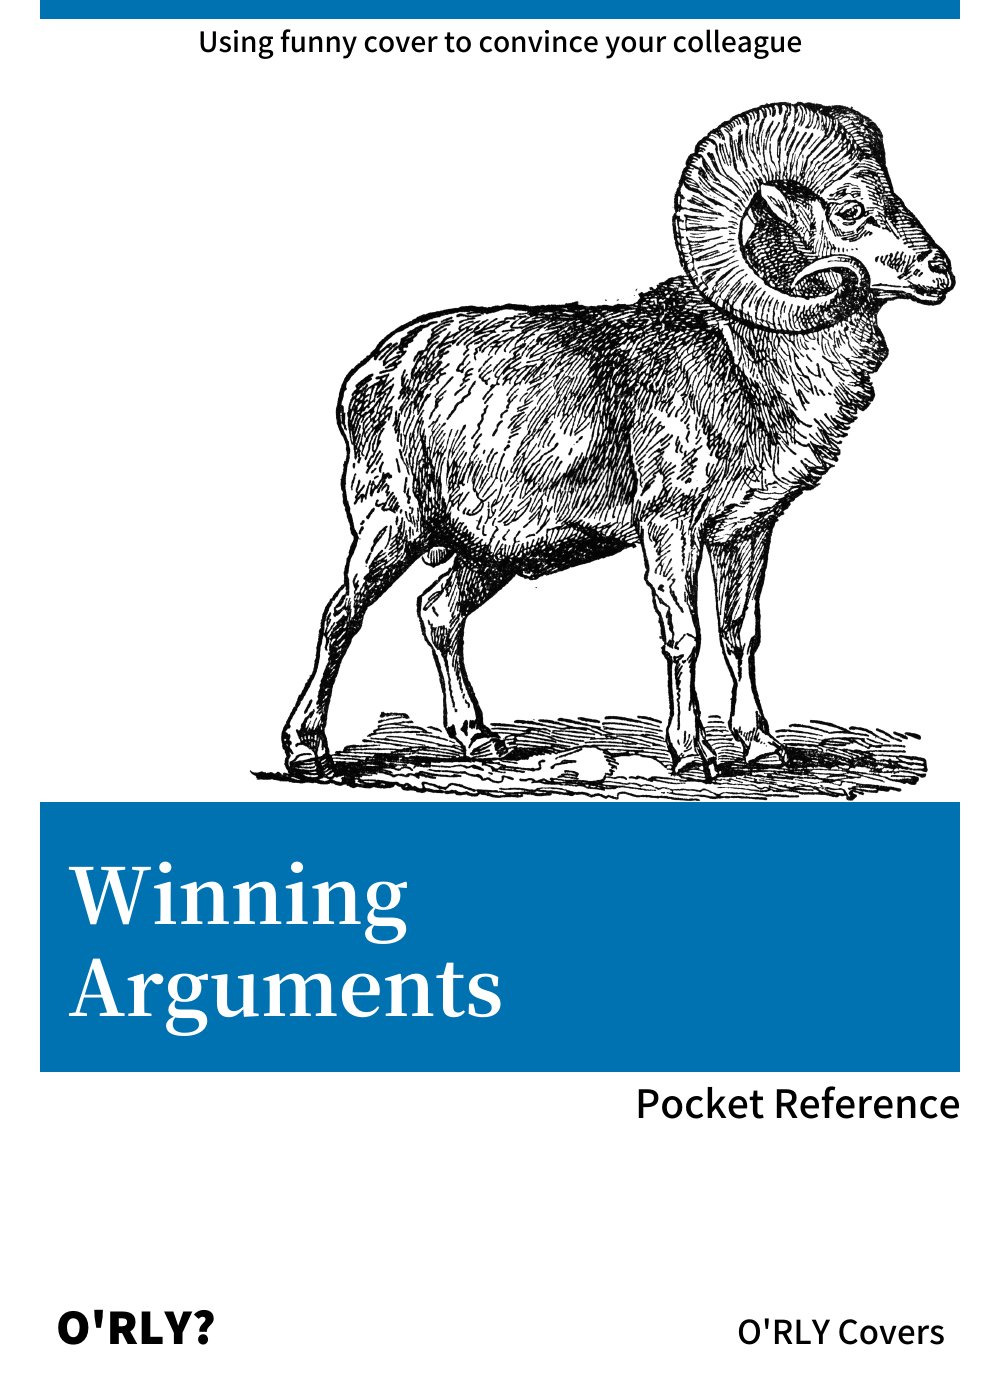
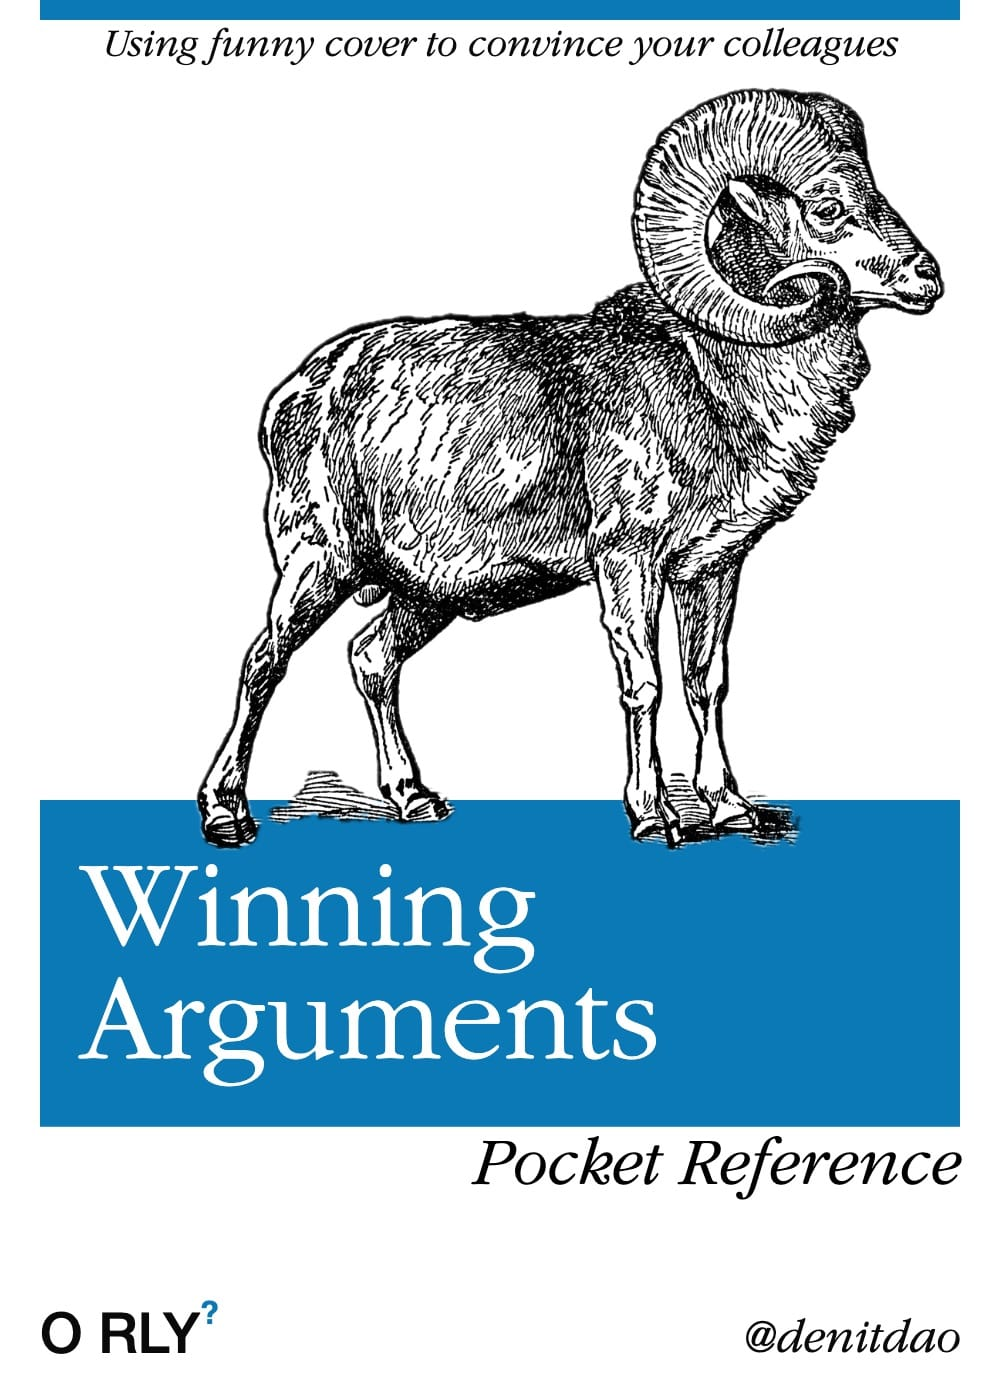
using vercel geist font updated OG preparing to use github as image source

Changed region(s): [[0.031, 0.0, 0.961, 0.86], [0.744, 0.9214, 0.961, 0.9829], [0.031, 0.9214, 0.217, 0.9829]]

diff --git a/src/pages/books/[slug].tsx b/src/pages/books/[slug].tsx
@@ -16,6 +16,7 @@ import { toast } from "sonner";
 import { createCaller } from "~/server/api/root";
 import { createInnerTRPCContext } from "~/server/api/trpc";
 import { type Story } from "~/server/storage/stories";
+import Image from "next/image";
 
 export const getStaticProps: GetStaticProps = async (context) => {
   const bookId = context.params?.slug as string;
@@ -87,17 +88,17 @@ const BookContent = ({ book, story }: { book: Book; story?: Story }) => {
     <main className="px-4 pb-16">
       <div className="mx-auto max-w-screen-2xl">
         <div className="flex w-full flex-col items-center">
-          {/* eslint-disable-next-line @next/next/no-img-element */}
-          <img
+          <Image
             alt={book.id}
             src={imageUrl}
+            unoptimized={true}
             height={600}
             width={600}
             className="mb-4"
           />
           <div className="mb-12 flex flex-wrap items-center gap-2">
             <SearchPills
-              activeKeyword={""}
+              activeKeyword=""
               pillDataArray={keywords}
               onKeywordClick={(keyword) => {
                 router
@@ -145,13 +146,13 @@ const Header = ({ title }: { title: string }) => {
   return (
     <header className="px-4 py-16">
       <div className="mx-auto flex w-full max-w-screen-2xl flex-col items-center">
-        <h1 className="mb-5 max-w-[800px] text-4xl font-extrabold tracking-tight text-black">
+        <h1 className="mb-5 max-w-[800px] text-4xl font-extrabold text-black">
           {title}
         </h1>
-        <h2 className="text-center font-mono tracking-tight text-gray-600">
+        <h2 className="text-center font-mono text-gray-600">
           View the full collection of compelling{" "}
           <Link
-            href={"/"}
+            href="/"
             className="underline decoration-blue-400 decoration-2 underline-offset-2"
           >
             programming book covers

diff --git a/src/components/OrlyFooter.tsx b/src/components/OrlyFooter.tsx
@@ -18,7 +18,7 @@ const OrlyFooter = () => {
             <path d="M10 .5a9.5 9.5 0 1 0 9.5 9.5A9.51 9.51 0 0 0 10 .5ZM9.5 4a1.5 1.5 0 1 1 0 3 1.5 1.5 0 0 1 0-3ZM12 15H8a1 1 0 0 1 0-2h1v-3H8a1 1 0 0 1 0-2h2a1 1 0 0 1 1 1v4h1a1 1 0 0 1 0 2Z" />
           </svg>
           <div>
-            <span className="font-mono font-bold">LEGAL NOTICE:</span>
+            <span className="font-bold">LEGAL NOTICE:</span>
             <ul className="ml-2 mt-1.5 list-inside list-disc">
               <li>
                 This website is not affiliated with O&apos;Reilly Media, Inc.
@@ -34,7 +34,7 @@ const OrlyFooter = () => {
             </ul>
           </div>
         </div>
-        <p className="mx-auto mt-8 font-mono text-sm text-gray-500">
+        <p className="mx-auto mt-8 font-mono text-gray-500">
           Open source on{" "}
           <Link
             href="https://github.com/denitdao/o-rly-collection"
@@ -43,7 +43,7 @@ const OrlyFooter = () => {
             GitHub
           </Link>
         </p>
-        <p className="mx-auto mt-2 font-mono text-sm text-gray-500">
+        <p className="mx-auto mt-2 font-mono text-gray-500">
           © {new Date().getFullYear() + " Created by "}
           <Link
             href="https://x.com/DChurchyn"

diff --git a/src/components/SortSelect.tsx b/src/components/SortSelect.tsx
@@ -11,6 +11,7 @@ import {
 import { type SelectTriggerProps } from "@radix-ui/react-select";
 import { cn } from "~/lib/utils";
 import { useState } from "react";
+import { GeistMono } from "geist/font/mono";
 
 interface SortSelectProps extends SelectTriggerProps {
   value: SortMode;
@@ -51,7 +52,7 @@ const SortSelect = ({
         )}
       </SelectTrigger>
       <SelectContent
-        className="font-mono"
+        className={GeistMono.className}
         // Fix for mobile tap, triggering onClick for element behind the select
         // https://github.com/shadcn-ui/ui/issues/486
         ref={(ref) => {
@@ -62,7 +63,7 @@ const SortSelect = ({
         }}
       >
         <SelectGroup>
-          <SelectLabel>Sorting Modes</SelectLabel>
+          <SelectLabel className="font-extrabold">Sort by</SelectLabel>
           <SelectItem value="default">Default</SelectItem>
           <SelectItem value="newest">
             <div className="flex">

diff --git a/src/pages/_app.tsx b/src/pages/_app.tsx
@@ -4,18 +4,14 @@ import "~/styles/globals.css";
 import { SpeedInsights } from "@vercel/speed-insights/next";
 import { GoogleAnalytics } from "~/components/meta/GoogleAnalytics";
 import { Toaster } from "~/components/ui/sonner";
-import { Inter as FontSans } from "next/font/google";
 import { cn } from "~/lib/utils";
 import PostHogAnalyticsProvider from "~/components/meta/PostHogAnalytics";
-
-const fontSans = FontSans({
-  subsets: ["latin"],
-  variable: "--font-sans",
-});
+import { GeistMono } from "geist/font/mono";
+import { GeistSans } from "geist/font/sans";
 
 const MyApp: AppType = ({ Component, pageProps }) => {
   return (
-    <div className={cn("font-sans antialiased", fontSans.variable)}>
+    <div className={cn(GeistSans.variable, GeistMono.variable, "font-sans")}>
       <PostHogAnalyticsProvider>
         <Component {...pageProps} />
       </PostHogAnalyticsProvider>

diff --git a/src/components/BookTile.tsx b/src/components/BookTile.tsx
@@ -20,7 +20,7 @@ const BookTile = ({
 }) => (
   <motion.div layout className="group relative rounded-lg bg-white shadow">
     <button
-      className="absolute right-0 top-0 z-10 hidden rounded-lg bg-gray-200 p-2 text-xl opacity-70 hover:opacity-90 group-hover:block"
+      className="absolute right-0 top-0 z-10 hidden rounded-lg bg-gray-200 p-2 opacity-70 hover:opacity-90 group-hover:block"
       onClick={onCopyClick}
     >
       <LinkIcon />
@@ -32,7 +32,7 @@ const BookTile = ({
         query: { slug: bookId },
       }}
     >
-      <h3 className="m-2 font-mono text-sm font-medium text-gray-900 decoration-blue-400 group-hover:underline group-hover:decoration-2">
+      <h3 className="m-2 font-mono text-sm decoration-blue-400 group-hover:underline group-hover:decoration-2">
         {title.length < 50 ? title : title.slice(0, 46) + "..."}
       </h3>
     </Link>

diff --git a/src/components/ImagePreview.tsx b/src/components/ImagePreview.tsx
@@ -1,5 +1,6 @@
 import { Link, X } from "lucide-react";
 import React, { createContext, useContext, useState } from "react";
+import Image from "next/image";
 
 type ImagePreviewContextType = {
   showImage: (imageId: string, imageUrl: string, onCopy: () => void) => void;
@@ -85,10 +86,11 @@ const ImagePreview: React.FC<ImagePreviewState> = (props) => {
       onClick={() => props.onClose()}
     >
       <div className="relative h-[80%] w-full max-w-screen-lg">
-        {/* eslint-disable-next-line @next/next/no-img-element */}
-        <img
-          src={imageUrl}
+        <Image
           alt={imageId}
+          src={imageUrl}
+          unoptimized={true}
+          fill
           className="h-full w-full object-contain"
         />
       </div>

diff --git a/src/components/OrlyHeader.tsx b/src/components/OrlyHeader.tsx
@@ -4,13 +4,13 @@ const OrlyHeader = () => {
   return (
     <header className="px-4 py-16">
       <div className="mx-auto flex w-full max-w-screen-2xl flex-col items-center">
-        <h1 className="mb-5 text-4xl font-extrabold tracking-tight text-black">
+        <h1 className="mb-5 text-4xl font-extrabold text-black">
           Search O&apos;RLY Covers
         </h1>
-        <h2 className="text-center font-mono tracking-tight text-gray-600">
+        <h2 className="text-center font-mono text-gray-600">
           Strengthen your{" "}
           <Link
-            href={"/"}
+            href="/"
             className="underline decoration-blue-400 decoration-2 underline-offset-2"
           >
             arguments

diff --git a/src/components/BlurringImage.tsx b/src/components/BlurringImage.tsx
@@ -1,4 +1,5 @@
 import { AspectRatio } from "~/components/ui/aspect-ratio";
+import Image from "next/image";
 
 const BlurringImage = ({
   alt,
@@ -14,12 +15,13 @@ const BlurringImage = ({
       ratio={3 / 4.1}
       className="w-full overflow-hidden rounded-lg bg-gray-200 hover:cursor-pointer"
     >
-      {/* eslint-disable-next-line @next/next/no-img-element */}
-      <img
+      <Image
         alt={alt}
         src={imageUrl}
         loading="lazy"
+        unoptimized={true}
         onClick={onClick}
+        fill
         className="h-full w-full scale-100 rounded-lg object-cover blur-0 grayscale-0 duration-500 ease-in-out group-hover:scale-95 group-hover:duration-200"
       />
     </AspectRatio>

diff --git a/src/pages/api/og.tsx b/src/pages/api/og.tsx
@@ -14,8 +14,8 @@ export default async function handler(request: NextRequest): Promise<Response> {
     const hasImageFile =
       searchParams.has("image_file") && searchParams.get("image_file") !== "";
     const image_file = hasImageFile
-      ? `${env.NEXT_PUBLIC_SITE_URL}${env.NEXT_PUBLIC_IMAGE_SOURCE}/${searchParams.get("image_file")}`
-      : `${env.NEXT_PUBLIC_SITE_URL}${env.NEXT_PUBLIC_OG_SOURCE}/og.jpeg`;
+      ? `${env.NEXT_PUBLIC_IMAGE_SOURCE}/${searchParams.get("image_file")}`
+      : `${env.NEXT_PUBLIC_OG_SOURCE}/og.jpeg`;
 
     // eslint-disable-next-line @typescript-eslint/no-unsafe-return, @typescript-eslint/no-unsafe-call
     return new ImageResponse(

diff --git a/src/components/SearchPills.tsx b/src/components/SearchPills.tsx
@@ -119,7 +119,7 @@ const SearchPills = ({
           variant="outline"
           className={cn(
             className,
-            "font-mono hover:border-primary",
+            "font-mono text-sm font-normal hover:border-primary",
             pillData.keyword === activeKeyword.trim().toLowerCase() &&
               "border-blue-300",
             gradient(pillData.colors),

diff --git a/tailwind.config.ts b/tailwind.config.ts
@@ -60,7 +60,8 @@ export default {
         sm: "calc(var(--radius) - 4px)",
       },
       fontFamily: {
-        sans: ["var(--font-sans)", ...fontFamily.sans],
+        sans: ["var(--font-geist-sans)", ...fontFamily.sans],
+        mono: ["var(--font-geist-mono)", ...fontFamily.mono],
       },
       keyframes: {
         "accordion-down": {

diff --git a/next.config.js b/next.config.js
@@ -19,6 +19,7 @@ const config = withAxiom({
     locales: ["en"],
     defaultLocale: "en",
   },
+  transpilePackages: ["geist"],
 
   experimental: {
     scrollRestoration: true,
